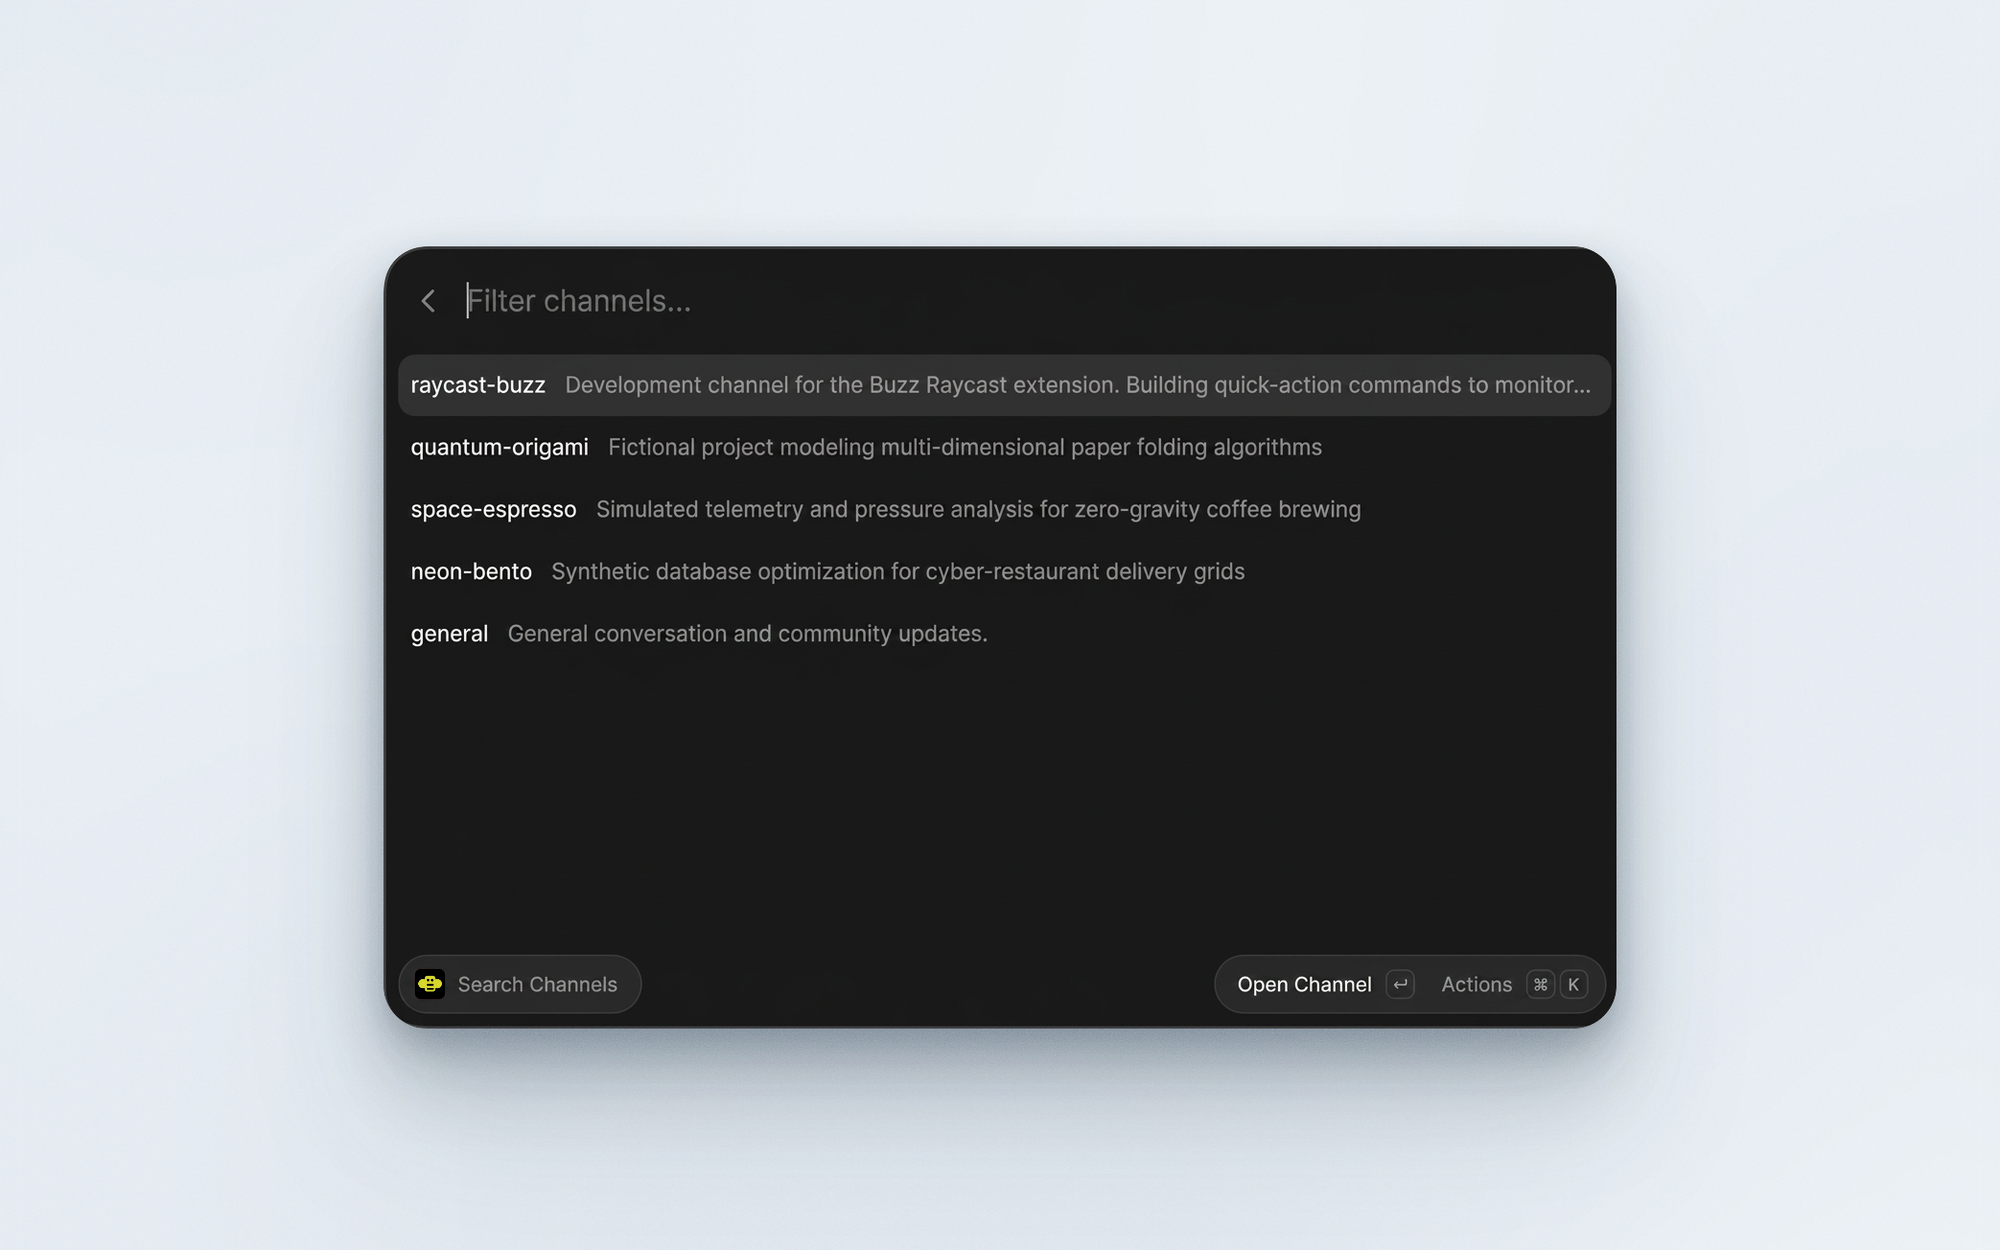
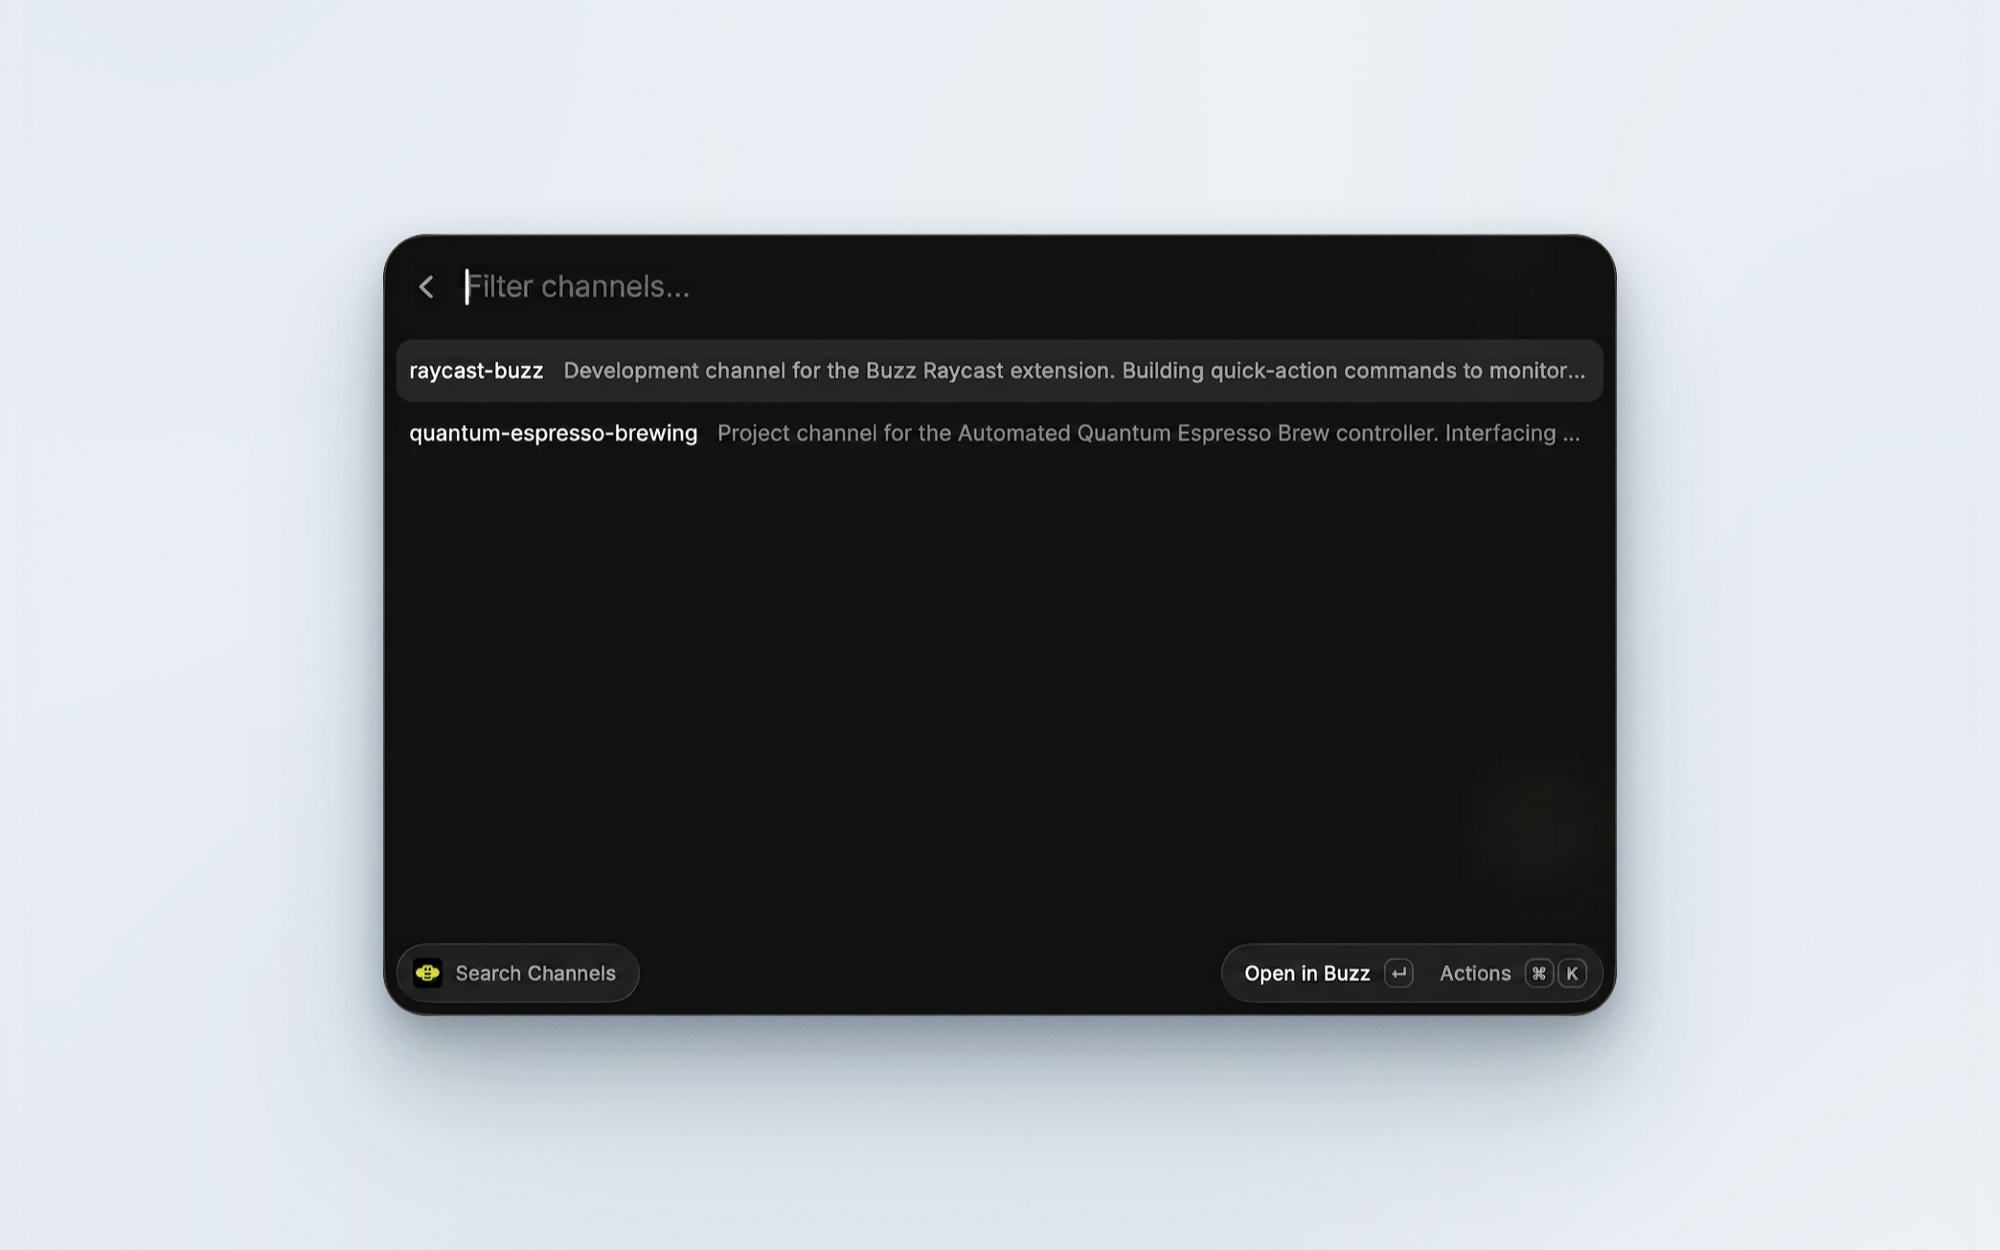
docs: add Send Message and Set Status screenshots
Three Store screenshots instead of one, all resized from 2088x1616 to the
2000x1250 Raycast requires (ray lint rejected the originals). The crop
trims background above and below the window; nothing in the window itself
is lost.

The README hero is now Send Message showing Channels, Direct Messages and
People at once, since that is what this release adds. The old hero showed
Search Channels, which is now one of two supporting shots further down.

diff --git a/README.md b/README.md
@@ -6,7 +6,7 @@
 
 Browse channels, search messages, post, send direct messages, react, and set your status in [Buzz](https://buzz.xyz/) directly from your command bar.
 
-![Buzz for Raycast Screenshot](./metadata/buzz-1.png)
+![Send Message: pick a channel, an existing conversation, or a person found by name](./metadata/buzz-2.png)
 
 Buzz is a self-hostable workspace where humans and agents build together, on a relay you own. It is architecturally a Nostr relay, so every action is a cryptographically signed event. This extension signs each request locally and talks to your relay over its authenticated HTTP bridge, so it needs no CLI or other binary installed to reach the relay. Opening a message or channel in the Buzz app, naturally, does require the Buzz desktop app to be installed.
 
@@ -28,6 +28,18 @@ Buzz is a self-hostable workspace where humans and agents build together, on a r
 | `Search Messages` | Full-text search across the channels you can access, and open a hit in Buzz                                                                                 |
 | `Send Message`    | Post a message to a channel, an existing conversation, or a person or agent found by name                                                                   |
 | `Set Status`      | View your current status, apply or manage reusable presets, or set a custom one                                                                             |
+
+### Search Channels
+
+Every channel on your relay, with Open in Buzz on Enter.
+
+![Search Channels](./metadata/buzz-1.png)
+
+### Set Status
+
+Your current status, and reusable presets you can apply in two keystrokes.
+
+![Set Status](./metadata/buzz-3.png)
 
 ## Setup
 
